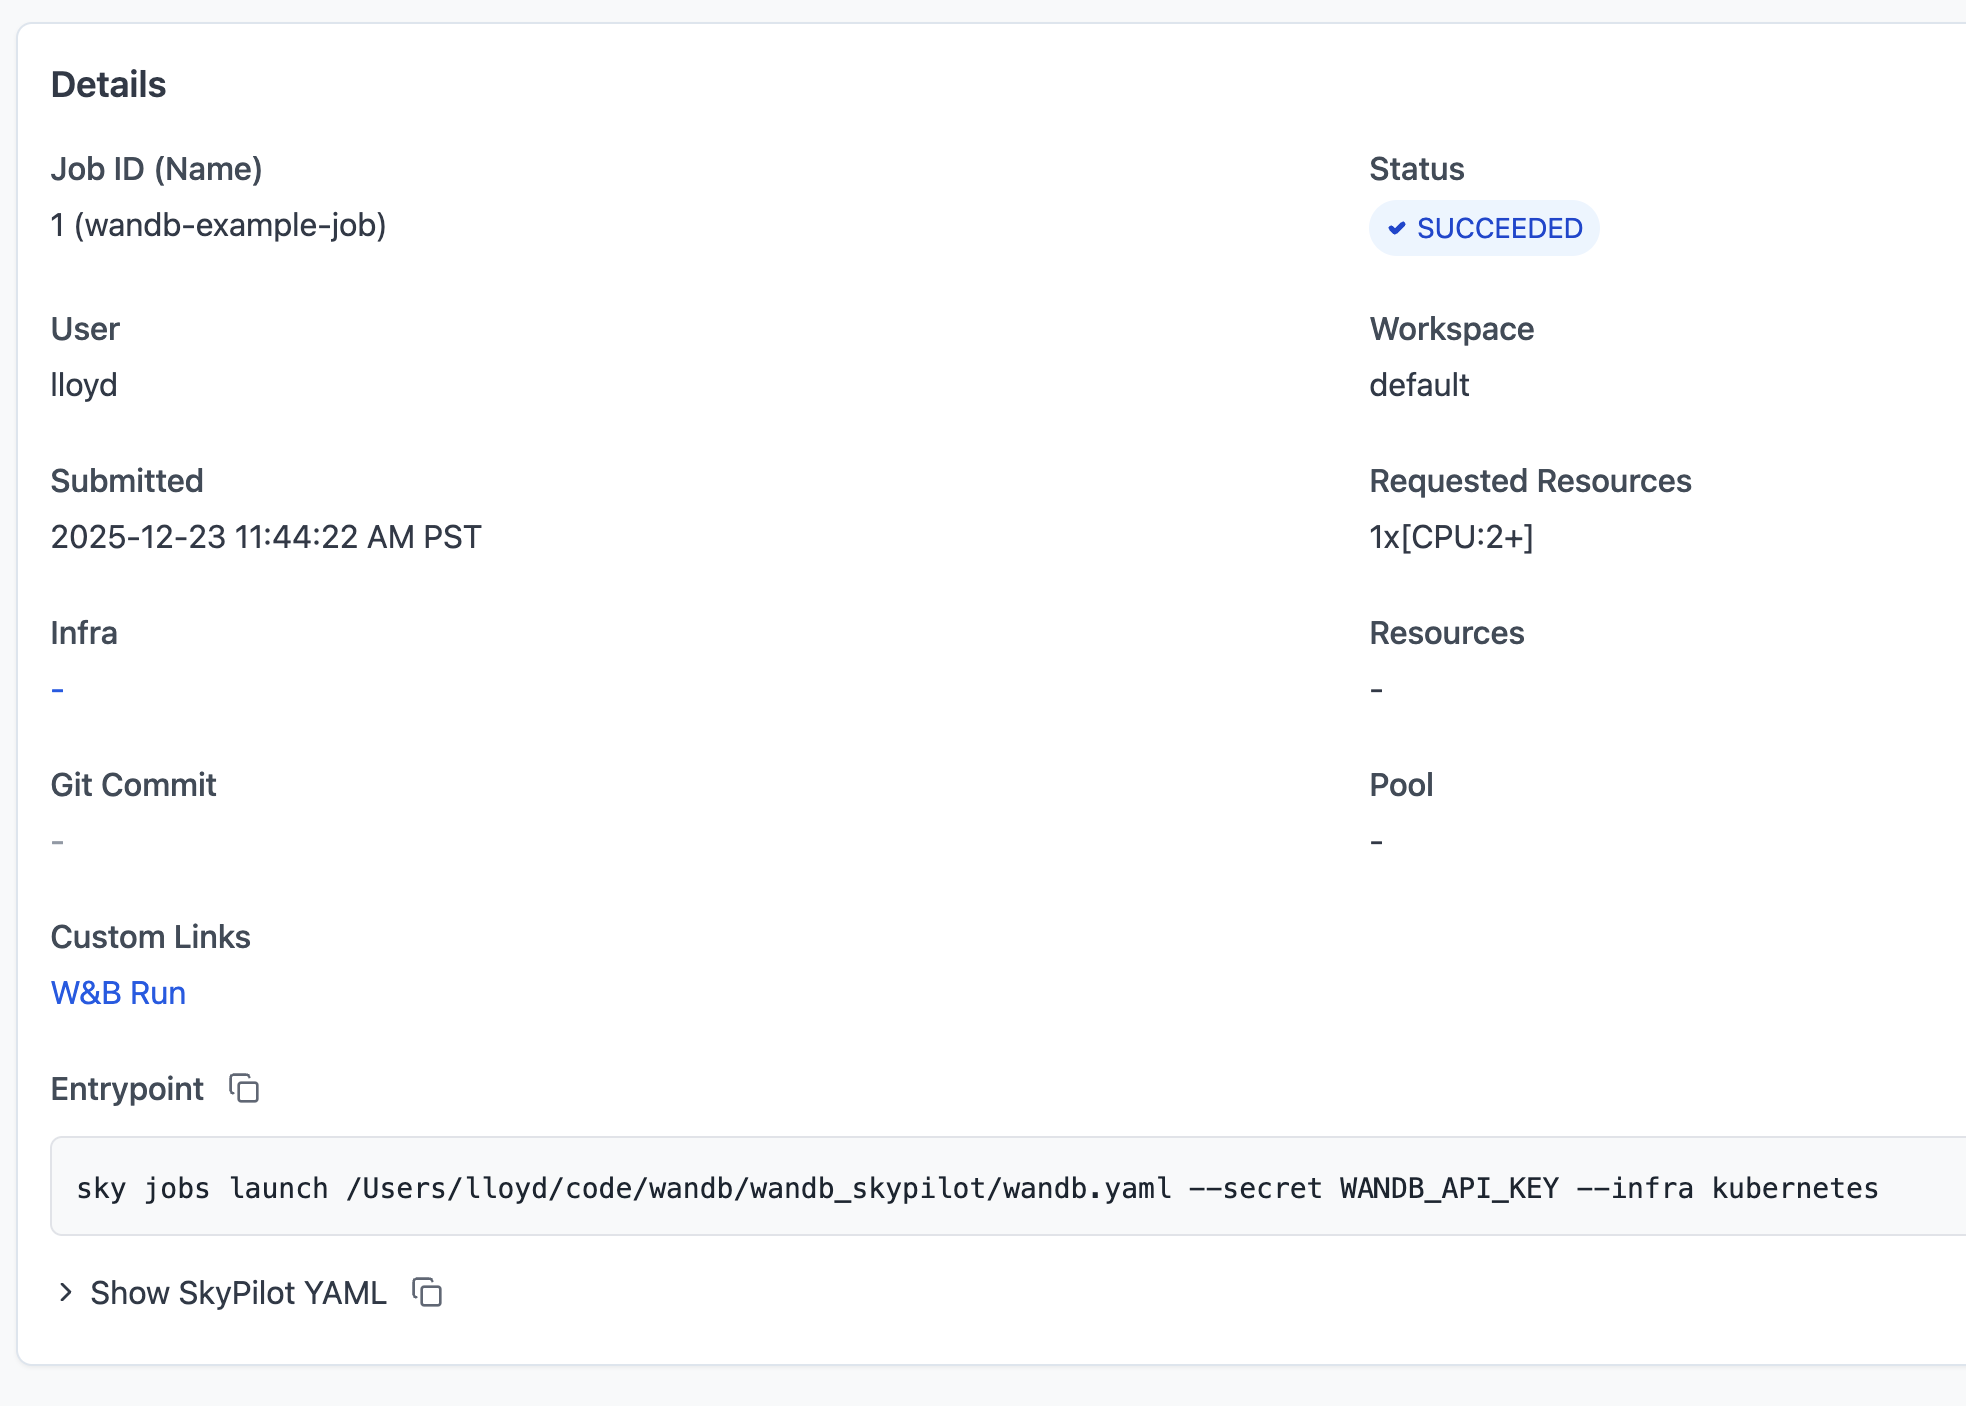
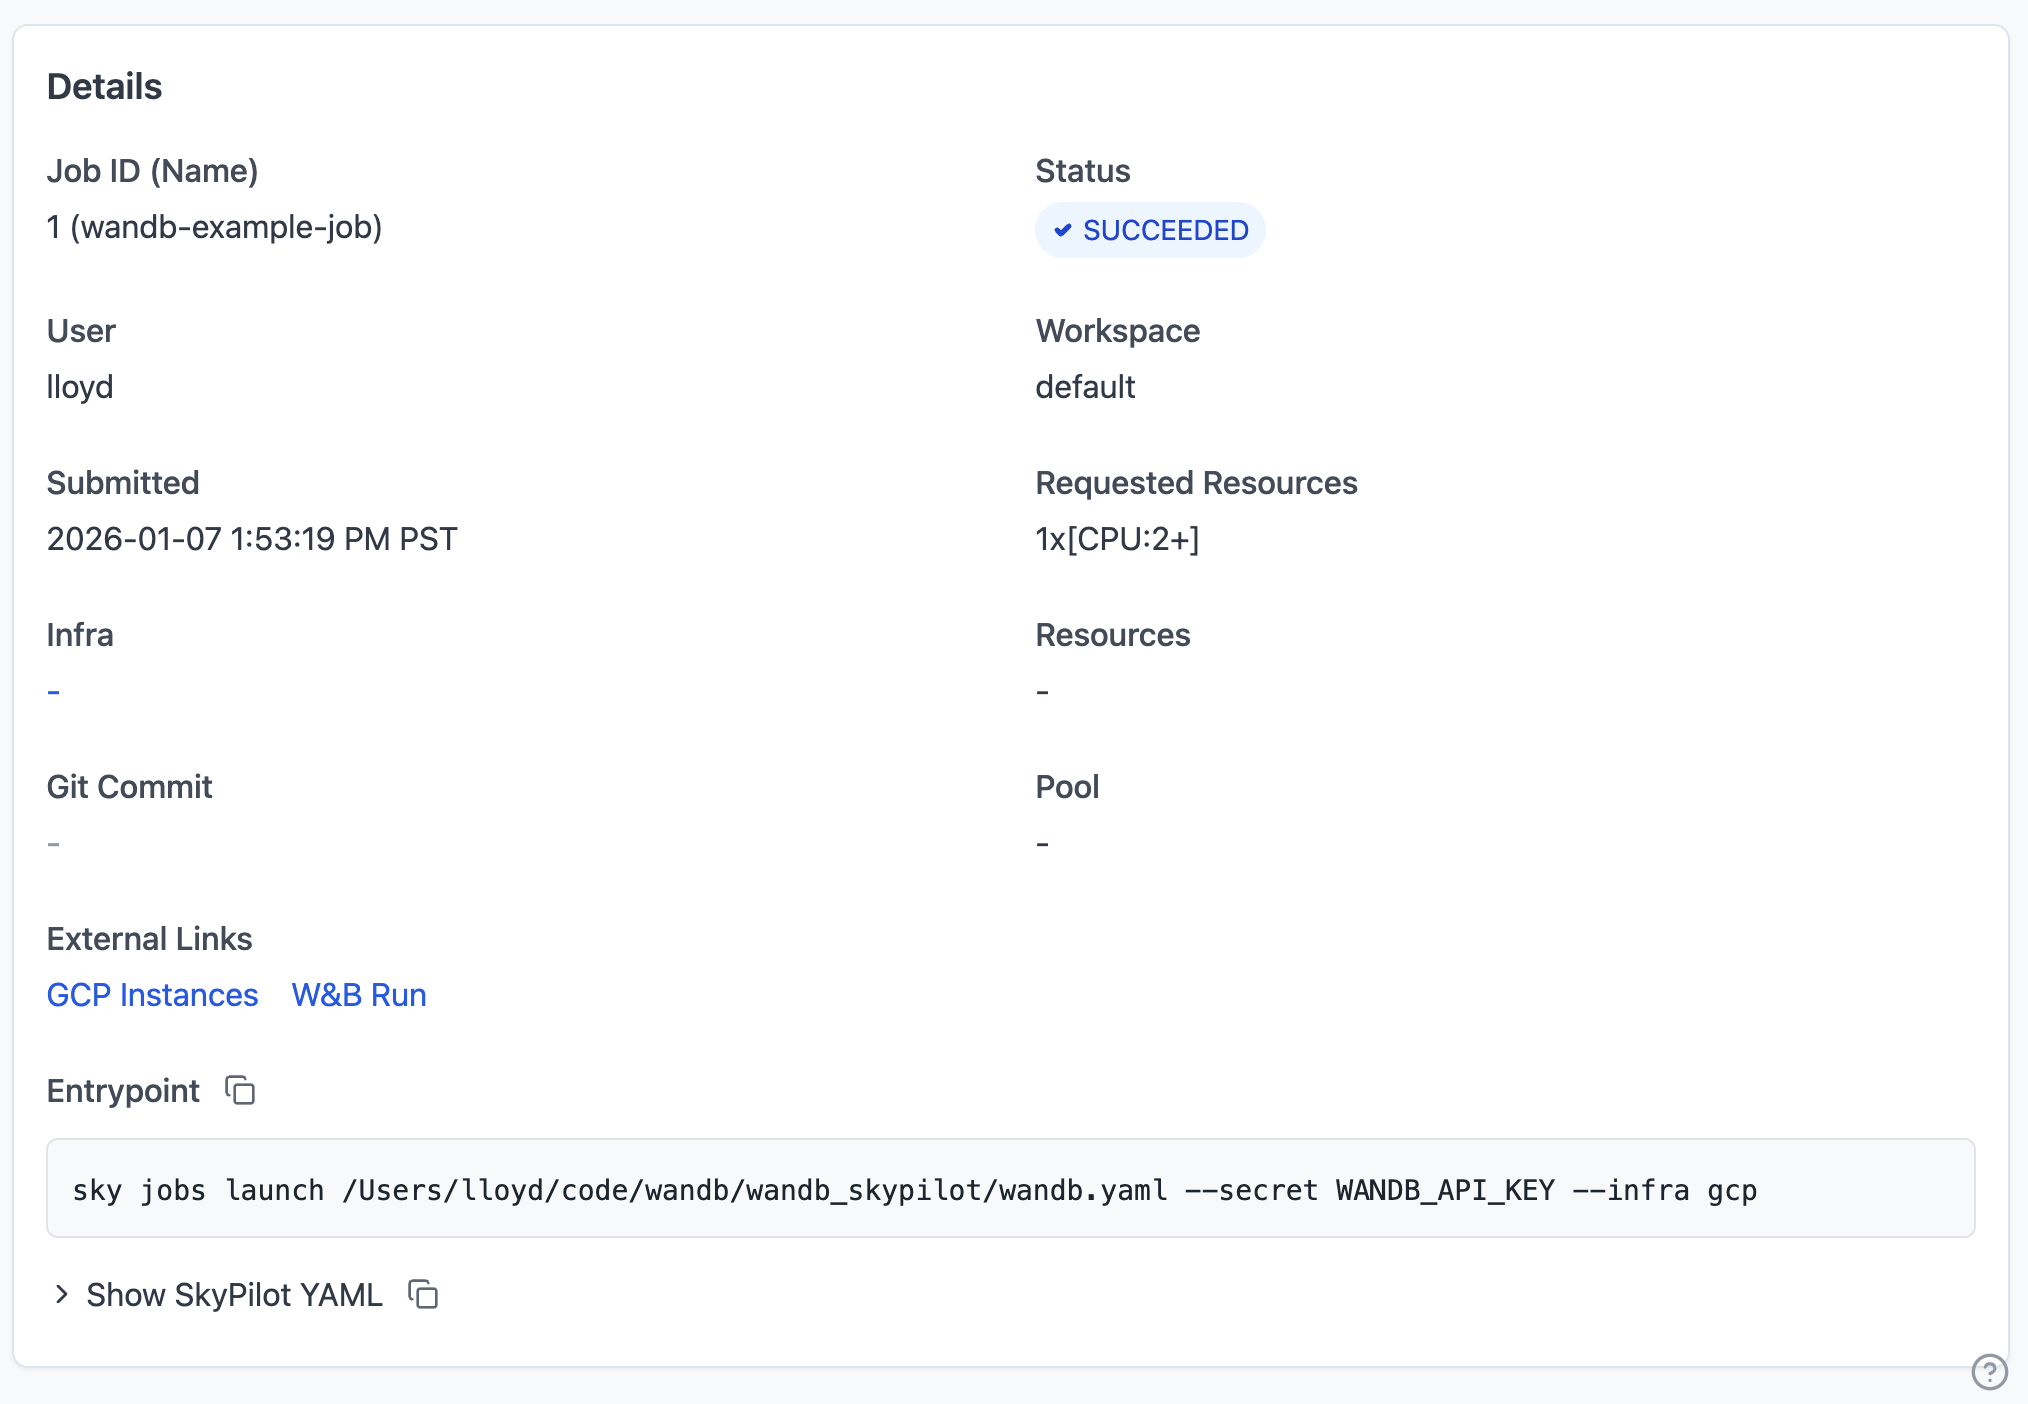
Address concerns.

diff --git a/sky/dashboard/src/pages/jobs/[job].js b/sky/dashboard/src/pages/jobs/[job].js
@@ -56,6 +56,7 @@ function JobDetails() {
   const [refreshLogsFlag, setRefreshLogsFlag] = useState(0);
   const [refreshControllerLogsFlag, setRefreshControllerLogsFlag] = useState(0);
   const [logExtractedLinks, setLogExtractedLinks] = useState({});
+  const [isLinksExpanded, setIsLinksExpanded] = useState(false);
   const isMobile = useMobile();
   // Update isInitialLoad when data is first loaded
   React.useEffect(() => {

diff --git a/sky/schemas/db/spot_jobs/011_add_links.py b/sky/schemas/db/spot_jobs/011_add_links.py
@@ -1,8 +1,8 @@
 """Add links column for storing cluster instance links.
 
-Revision ID: 009
-Revises: 008
-Create Date: 2025-12-17
+Revision ID: 011
+Revises: 010
+Create Date: 2026-01-07
 
 """
 # pylint: disable=invalid-name
@@ -14,8 +14,8 @@ import sqlalchemy as sa
 from sky.utils.db import db_utils
 
 # revision identifiers, used by Alembic.
-revision: str = '009'
-down_revision: Union[str, Sequence[str], None] = '008'
+revision: str = '011'
+down_revision: Union[str, Sequence[str], None] = '010'
 branch_labels: Union[str, Sequence[str], None] = None
 depends_on: Union[str, Sequence[str], None] = None
 
